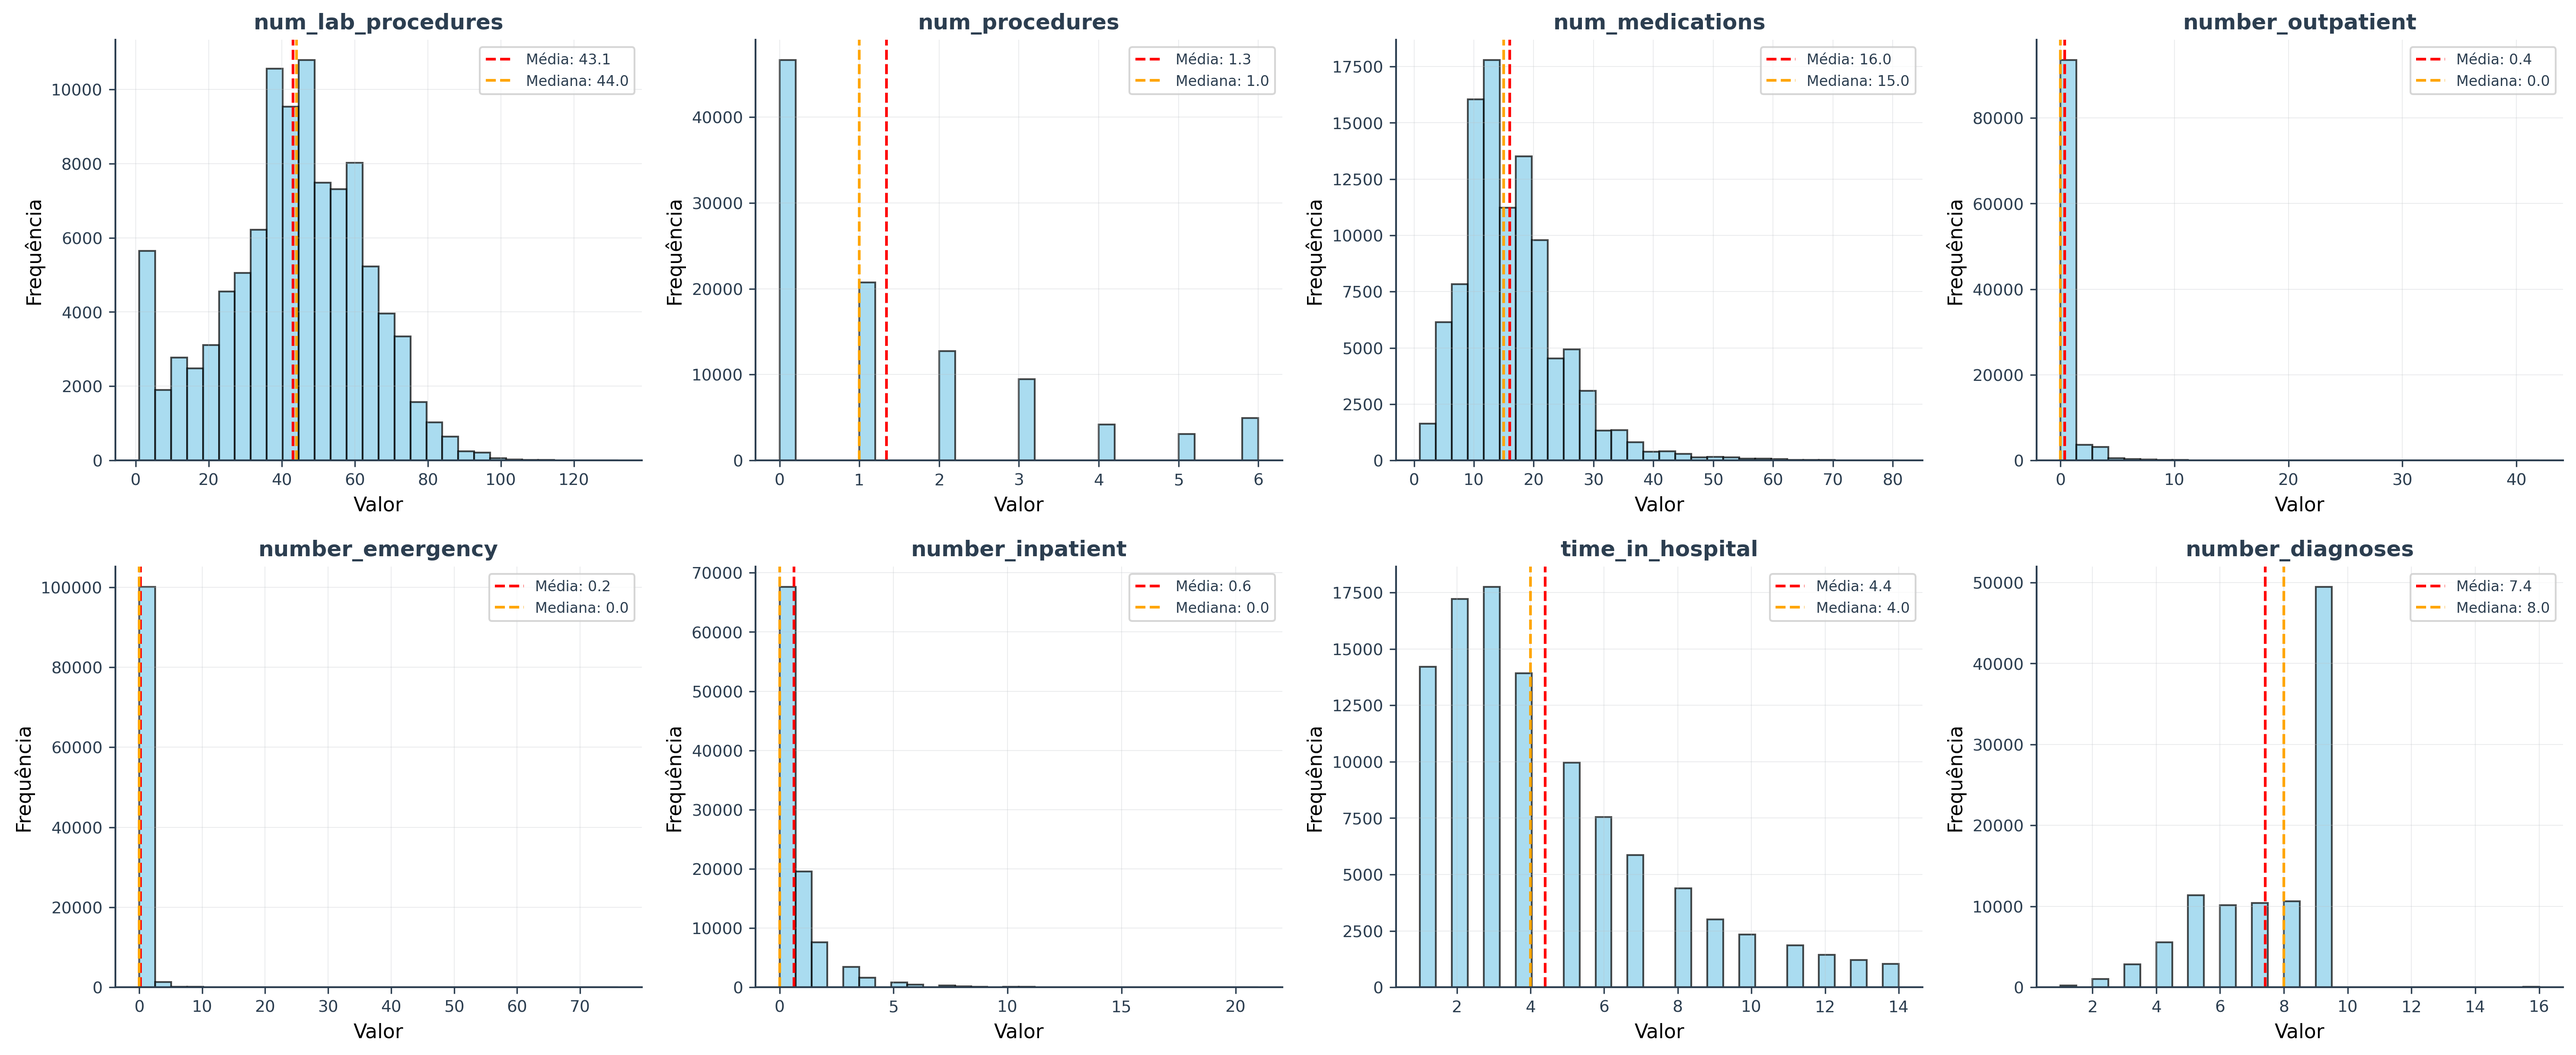
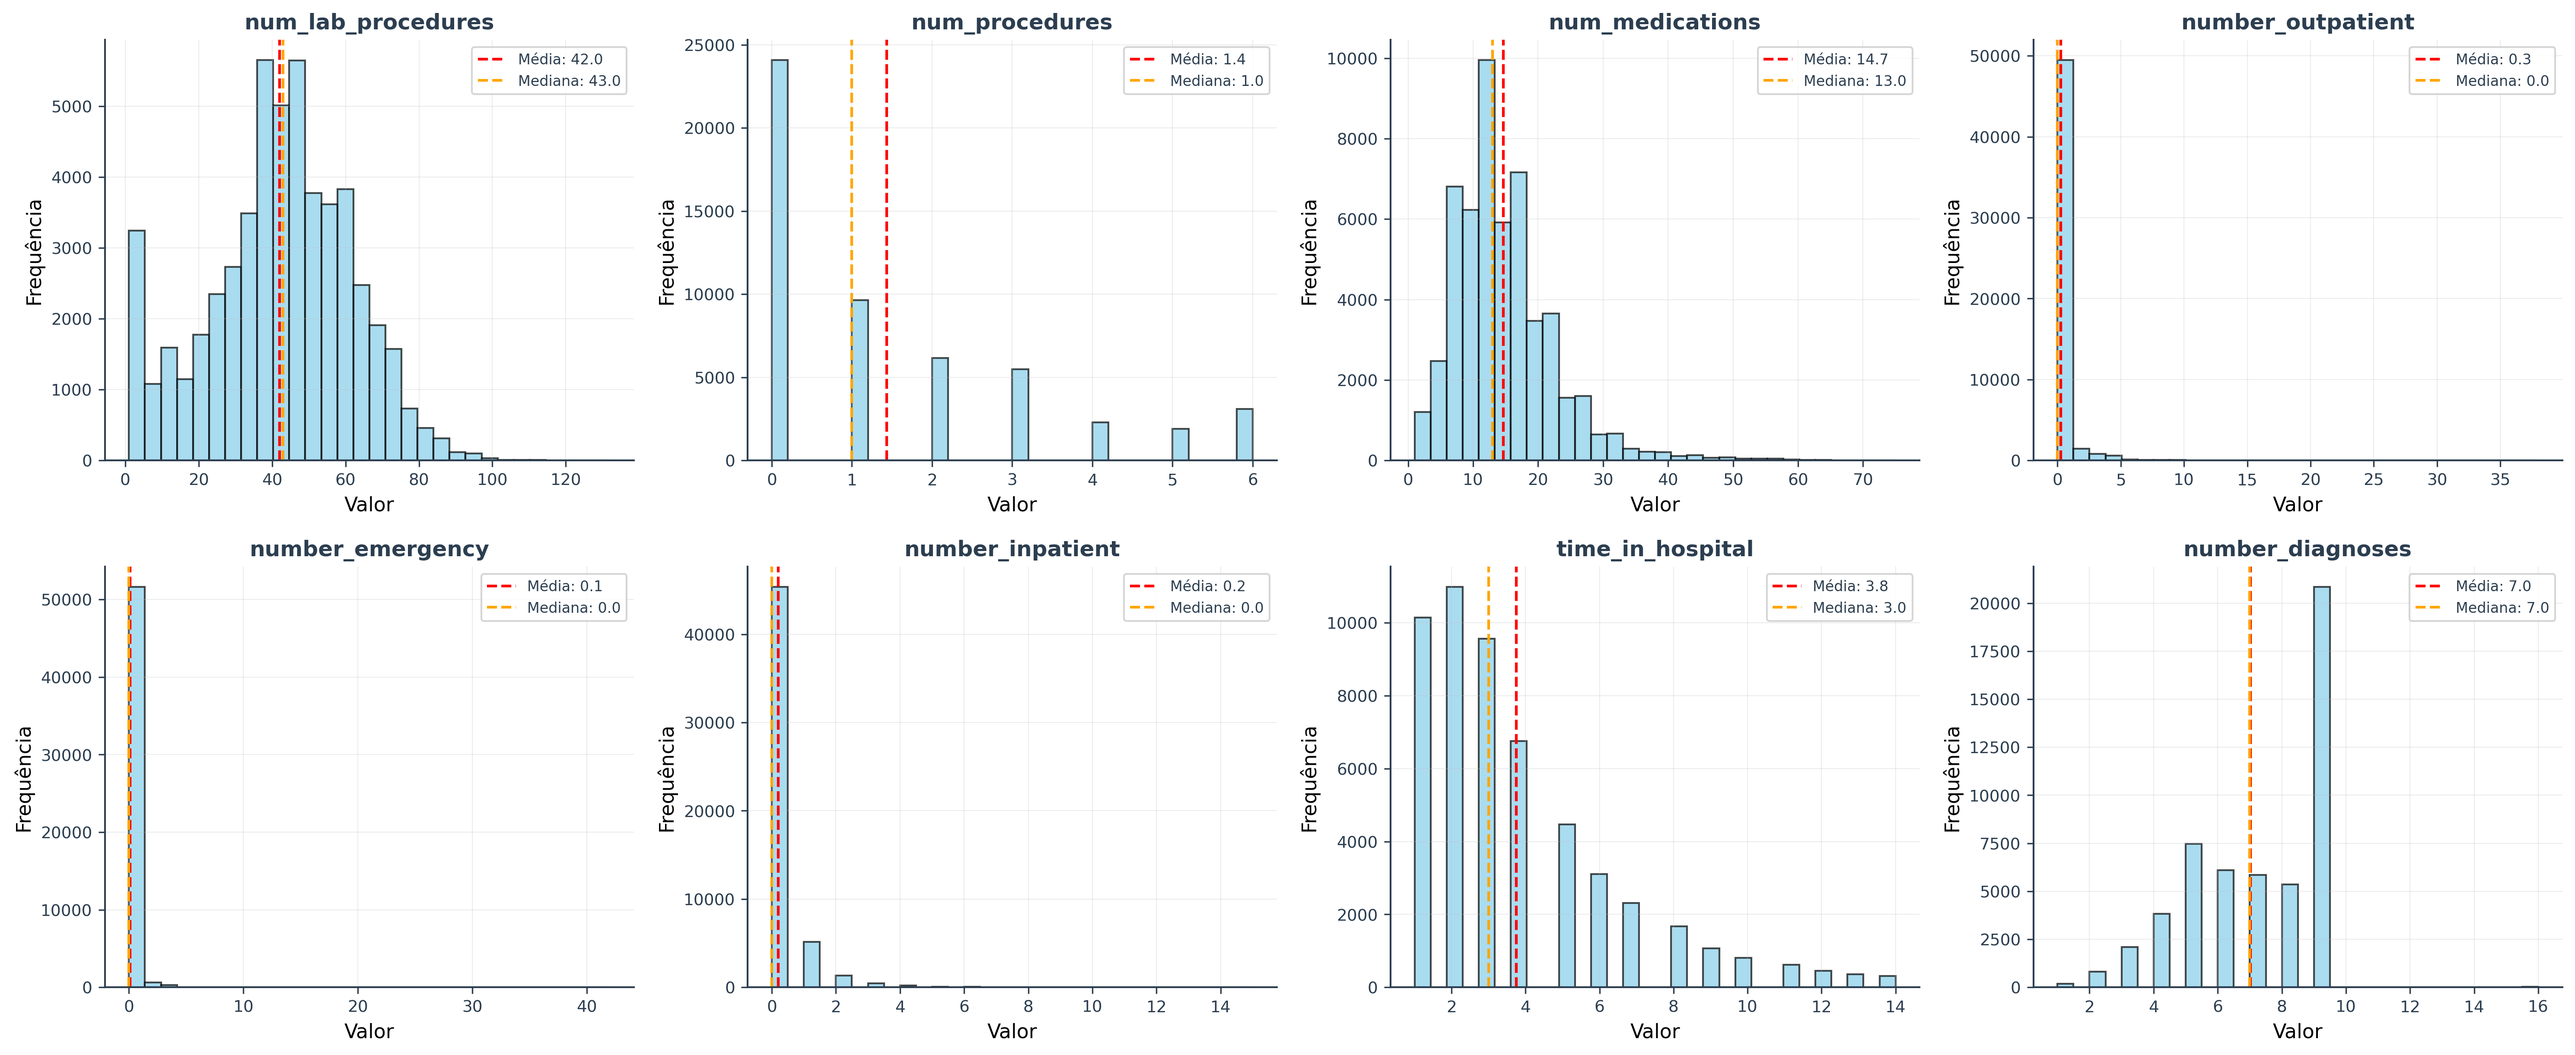
Atualiza relatórios e visualizações com dados mais recentes e ajusta títulos para maior clareza

diff --git a/results/eda_report.html b/results/eda_report.html
@@ -25,10 +25,10 @@
             
             <div class="summary">
                 <h3>📋 Resumo Executivo</h3>
-                <p><span class="metric">Dataset:</span> 101,766 registros, 54 colunas</p>
-                <p><span class="metric">Pacientes únicos:</span> 71,518</p>
-                <p><span class="metric">Taxa de readmissão <30 dias:</span> 11.2%</p>
-                <p><span class="metric">Data da análise:</span> 08/08/2025 19:51</p>
+                <p><span class="metric">Dataset:</span> 52,627 registros, 59 colunas</p>
+                <p><span class="metric">Pacientes únicos:</span> 52,627</p>
+                <p><span class="metric">Taxa de readmissão <30 dias:</span> 7.7%</p>
+                <p><span class="metric">Data da análise:</span> 08/08/2025 22:58</p>
             </div>
             
             <h2>📈 Visualizações Geradas</h2>

diff --git a/src/exploratory_analysis.py b/src/exploratory_analysis.py
@@ -85,7 +85,7 @@ class ExploratoryDataAnalysis:
                 print(f"✅ Usando dados limpos: {CLEAN_DATA_FILE}")
             else:
                 self.data_path = RAW_DATA_FILE
-                print(f"⚠  Dados limpos não encontrados. Usando dados brutos: {RAW_DATA_FILE}")
+                print(f"⚠  Dados brutos não encontrados. Usando dados brutos: {RAW_DATA_FILE}")
         else:
             self.data_path = data_path
             
@@ -286,8 +286,8 @@ class ExploratoryDataAnalysis:
         
         # Salvar figura
         visualizer.save_figure(fig, 'target_variable_analysis',
-                              title='Análise da Variável Target - Readmissão Hospitalar',
-                              subtitle='Distribuição e Estatísticas da Variável de Interesse')
+                              title='',
+                              subtitle='')
     
     def analyze_missing_data(self):
         """Analisa dados faltantes no dataset com visualizações"""
@@ -380,7 +380,7 @@ class ExploratoryDataAnalysis:
                 
                 if len(pattern_counts) > 1:
                     ax4.bar(range(len(pattern_counts)), pattern_counts.values, color='lightgreen')
-                    ax4.set_xlabel('Padrões de Dados Faltantes (Top 10)')
+                    ax4.set_xlabel('Padrões de Dados Faltantes')
                     ax4.set_ylabel('Frequência')
                     ax4.set_title('Padrões de Combinação\nDados Faltantes (Top 5 colunas)', 
                                  fontsize=14, fontweight='bold')
@@ -533,11 +533,11 @@ class ExploratoryDataAnalysis:
                 else:
                     print(f"  {race}: {count:,} ({pct:.1f}%)")
             
-            # Gráfico de barras horizontais - distribuição por raça (top 10)
+            # Gráfico de barras horizontais - distribuição por raça
             ax1 = axes[0, col_idx]
             top_races = race_counts.head(10)
             bars1 = ax1.barh(range(len(top_races)), top_races.values, color='lightgreen')
-            ax1.set_title('Distribuição por Raça (Top 10)', fontsize=14, fontweight='bold')
+            ax1.set_title('Distribuição por Raça', fontsize=14, fontweight='bold')
             ax1.set_xlabel('Número de Pacientes')
             ax1.set_yticks(range(len(top_races)))
             ax1.set_yticklabels(top_races.index, fontsize=10)
@@ -547,13 +547,13 @@ class ExploratoryDataAnalysis:
                 ax1.text(v + max(top_races.values)*0.01, i, f'{v:,}', 
                         va='center', ha='left', fontsize=9)
             
-            # Gráfico de barras - taxa de readmissão por raça (top 10)
+            # Gráfico de barras - taxa de readmissão por raça
             ax2 = axes[1, col_idx]
             valid_races = [r for r in top_races.index if r in race_target.index]
             if valid_races:
                 readmission_rates = [race_target.loc[r, 'Taxa_Readmissao'] * 100 for r in valid_races]
                 bars2 = ax2.barh(range(len(valid_races)), readmission_rates, color='salmon')
-                ax2.set_title('Taxa de Readmissão por Raça (Top 10)', fontsize=14, fontweight='bold')
+                ax2.set_title('Taxa de Readmissão por Raça', fontsize=14, fontweight='bold')
                 ax2.set_xlabel('Taxa de Readmissão (%)')
                 ax2.set_yticks(range(len(valid_races)))
                 ax2.set_yticklabels(valid_races, fontsize=10)
@@ -600,7 +600,7 @@ class ExploratoryDataAnalysis:
         
         # Análise de especialidade médica
         if 'medical_specialty' in self.df.columns:
-            print(f"\nTop 10 especialidades médicas:")
+            print(f"\nEspecialidades médicas:")
             specialty_counts = self.df['medical_specialty'].value_counts()
             specialty_target = self.df.groupby('medical_specialty')['target'].agg(['count', 'mean']).round(3)
             specialty_target.columns = ['Total', 'Taxa_Readmissao']
@@ -903,7 +903,7 @@ class ExploratoryDataAnalysis:
                     ax1.set_yticks(range(len(top_meds)))
                     ax1.set_yticklabels([med.replace('_', ' ') for med in top_meds['Medicamento']], fontsize=10)
                     ax1.set_xlabel('Taxa de Prescrição (%)')
-                    ax1.set_title('Top 10 Medicamentos por Taxa de Prescrição', fontsize=14, fontweight='bold')
+                    ax1.set_title('Medicamentos por Taxa de Prescrição', fontsize=14, fontweight='bold')
                     
                     # Adicionar valores
                     for i, v in enumerate(top_meds['Taxa_Prescricao']):
@@ -1264,7 +1264,7 @@ class ExploratoryDataAnalysis:
             
             diagnosis_results[diag_col] = diag_stats
             
-            print(f"  Top 10 categorias por frequência:")
+            print(f"  Categorias por frequência:")
             for category, row in diag_stats.head(10).iterrows():
                 print(f"    {category}: {row['Total_Casos']:,} casos ({row['Taxa_Readmissao']*100:.1f}% readmissão)")
         
@@ -1325,7 +1325,7 @@ class ExploratoryDataAnalysis:
             combo_stats = combo_stats[combo_stats['Total_Casos'] >= 50]  # Filtrar combinações raras
             combo_stats = combo_stats.sort_values('Total_Casos', ascending=False)
             
-            print(f"  Top 10 combinações de diagnósticos:")
+            print(f"  Combinações de diagnósticos:")
             for _, row in combo_stats.head(10).iterrows():
                 print(f"    {row[primary_diag]} + {row[secondary_diag]}: {row['Total_Casos']:,} casos ({row['Taxa_Readmissao']*100:.1f}% readmissão)")
         
